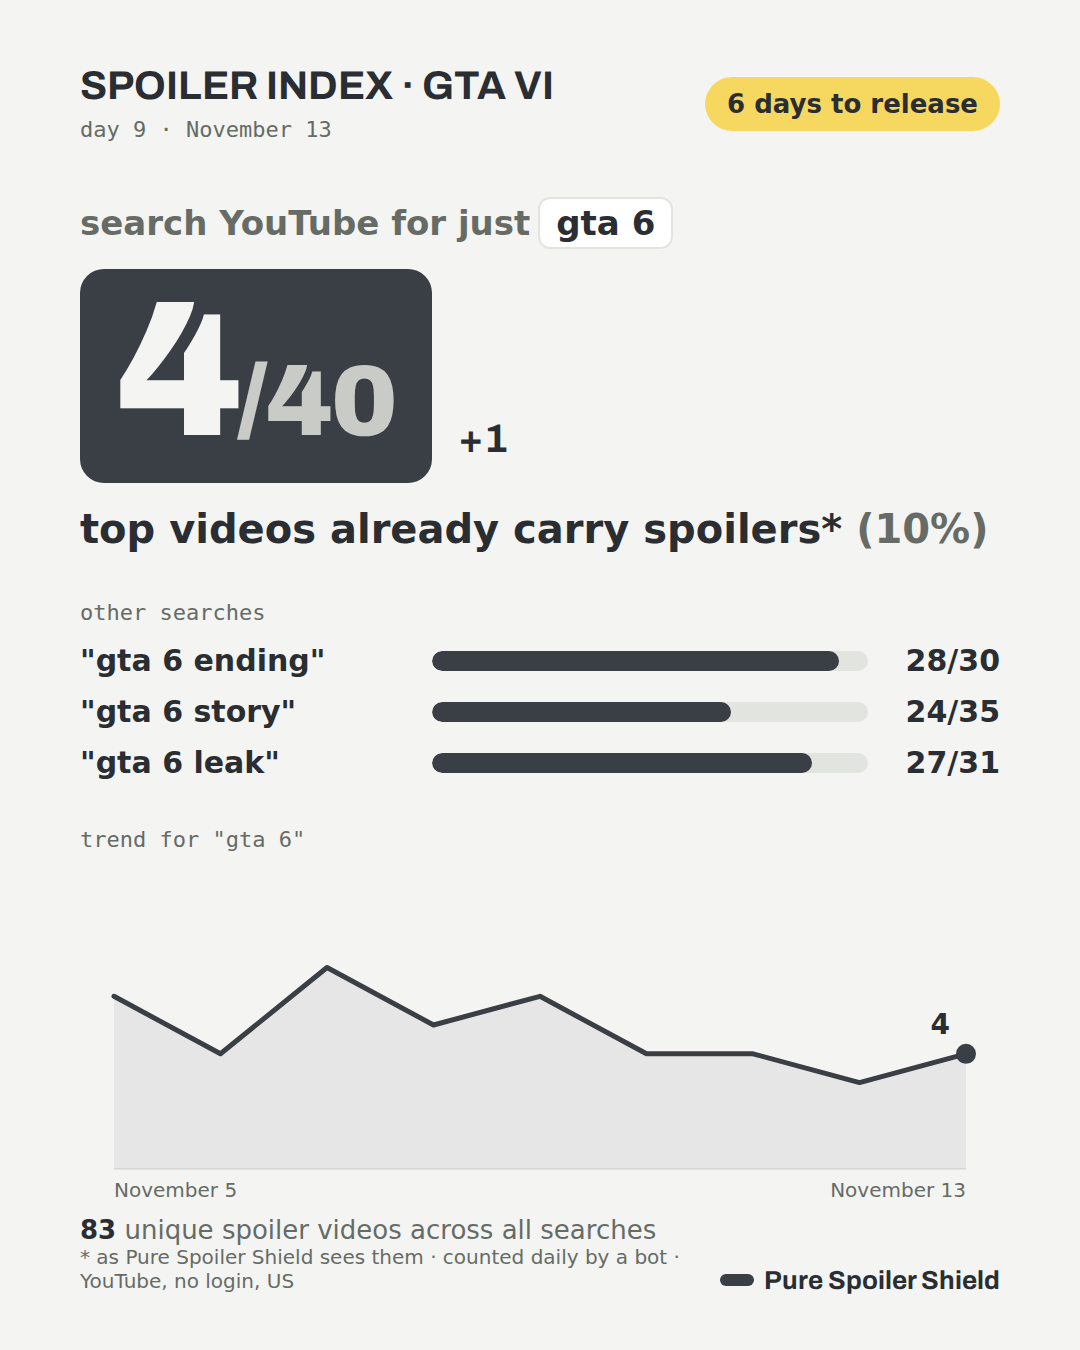
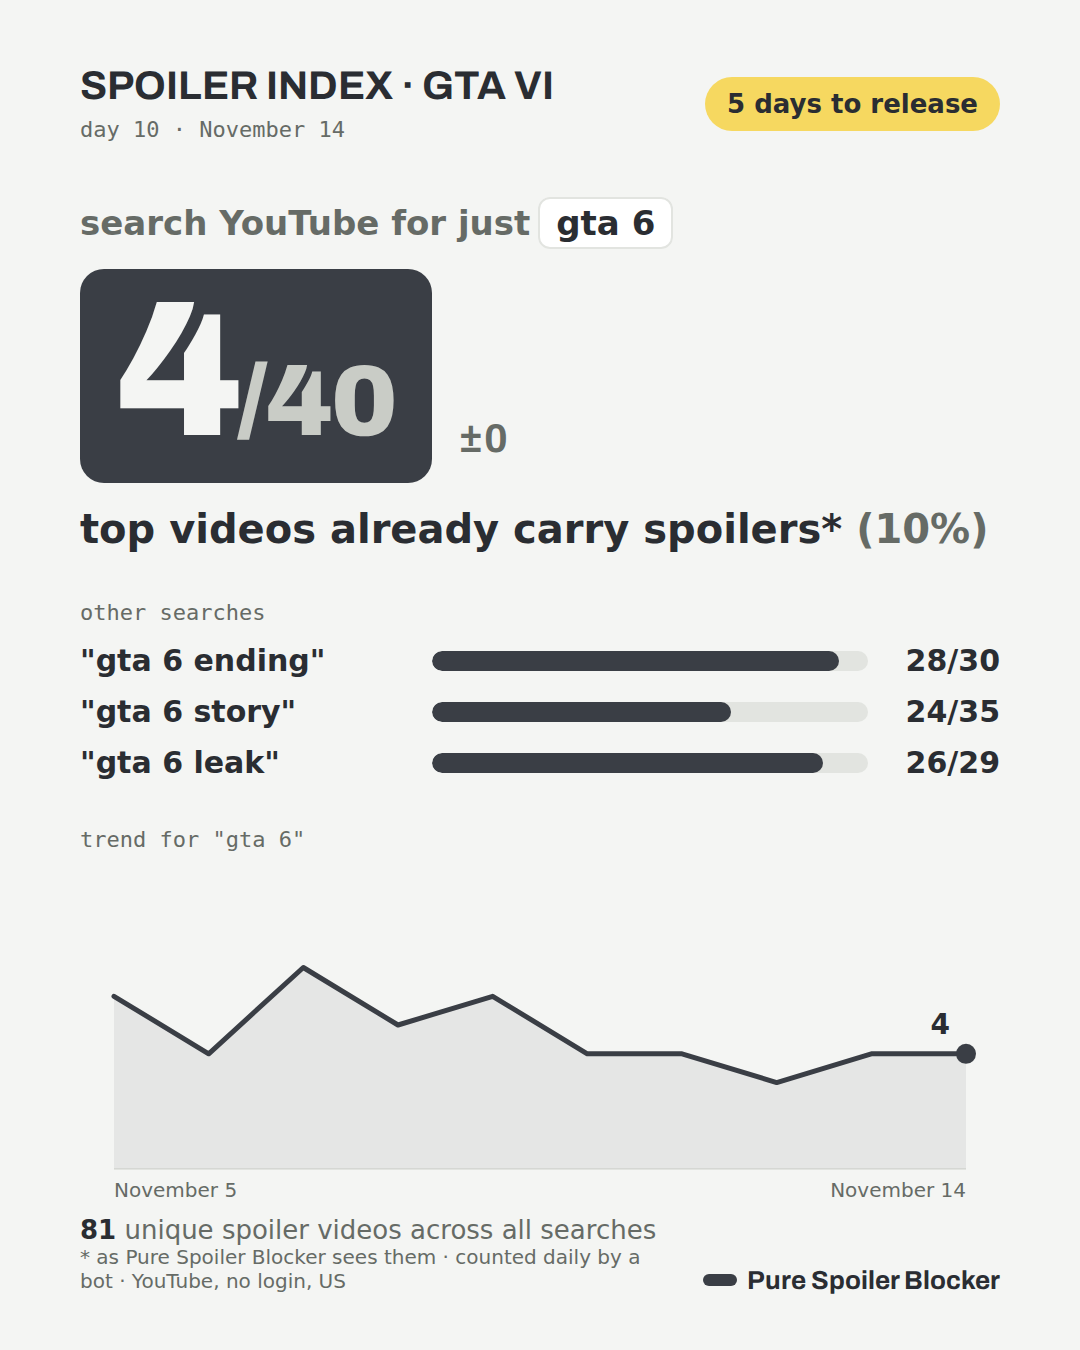
spoiler index: 2026-11-14

diff --git a/spoiler-index/index.html b/spoiler-index/index.html
@@ -11,7 +11,7 @@
 <meta property="og:description" content="Today 4 of the top 40 YouTube results for &quot;gta 6&quot; carry spoilers. Counted every day by a bot with no login, from 2026-11-05.">
 <meta property="og:image" content="https://qwemort.github.io/pure-guides/spoiler-index/latest-en.png">
 <meta name="twitter:card" content="summary_large_image">
-<script type="application/ld+json">{"@context":"https://schema.org","@type":"Dataset","name":"GTA 6 Spoiler Index","description":"Today 4 of the top 40 YouTube results for \"gta 6\" carry spoilers. Counted every day by a bot with no login, from 2026-11-05.","url":"https://qwemort.github.io/pure-guides/spoiler-index/","temporalCoverage":"2026-11-05/2026-11-13","isAccessibleForFree":true,"license":"https://creativecommons.org/licenses/by/4.0/","creator":{"@type":"Organization","name":"Pure guides"},"distribution":{"@type":"DataDownload","encodingFormat":"application/json","contentUrl":"https://qwemort.github.io/pure-guides/data/spoiler-index.json"}}</script>
+<script type="application/ld+json">{"@context":"https://schema.org","@type":"Dataset","name":"GTA 6 Spoiler Index","description":"Today 4 of the top 40 YouTube results for \"gta 6\" carry spoilers. Counted every day by a bot with no login, from 2026-11-05.","url":"https://qwemort.github.io/pure-guides/spoiler-index/","temporalCoverage":"2026-11-05/2026-11-14","isAccessibleForFree":true,"license":"https://creativecommons.org/licenses/by/4.0/","creator":{"@type":"Organization","name":"Pure guides"},"distribution":{"@type":"DataDownload","encodingFormat":"application/json","contentUrl":"https://qwemort.github.io/pure-guides/data/spoiler-index.json"}}</script>
 </head>
 <body>
 <!-- chrome:top -->
@@ -31,11 +31,12 @@
 <main>
 <a class="brand" href="../">← Pure guides</a>
 <h1>GTA 6 Spoiler Index</h1>
-<p class="muted">Updated 2026-11-13 · day 9 · 6 days to release</p>
-<div class="note tldr"><strong>Today:</strong> search YouTube for just "gta 6" and <strong>4 of the top 40</strong> videos already carry spoilers. Across all four searches below there are <strong>83</strong> unique spoiler videos.</div>
-<figure><img src="latest-en.png" alt="GTA 6 spoiler index card for 2026-11-13" width="1080" height="1350"></figure>
+<p class="muted">Updated 2026-11-14 · day 10 · 5 days to release</p>
+<div class="note tldr"><strong>Today:</strong> search YouTube for just "gta 6" and <strong>4 of the top 40</strong> videos already carry spoilers. Across all four searches below there are <strong>81</strong> unique spoiler videos.</div>
+<figure><img src="latest-en.png" alt="GTA 6 spoiler index card for 2026-11-14" width="1080" height="1350"></figure>
 <h2>Every day</h2>
 <table><tr><th>Date</th><th>"gta 6"</th><th>"gta 6 ending"</th><th>"gta 6 story"</th><th>"gta 6 leak"</th><th>Unique spoiler videos</th></tr>
+<tr><td>2026-11-14</td><td><strong>4</strong> / 40</td><td>28 / 30</td><td>24 / 35</td><td>26 / 29</td><td>81</td></tr>
 <tr><td>2026-11-13</td><td><strong>4</strong> / 40</td><td>28 / 30</td><td>24 / 35</td><td>27 / 31</td><td>83</td></tr>
 <tr><td>2026-11-12</td><td><strong>3</strong> / 40</td><td>29 / 30</td><td>23 / 35</td><td>25 / 29</td><td>78</td></tr>
 <tr><td>2026-11-11</td><td><strong>4</strong> / 40</td><td>27 / 29</td><td>23 / 35</td><td>26 / 30</td><td>79</td></tr>
